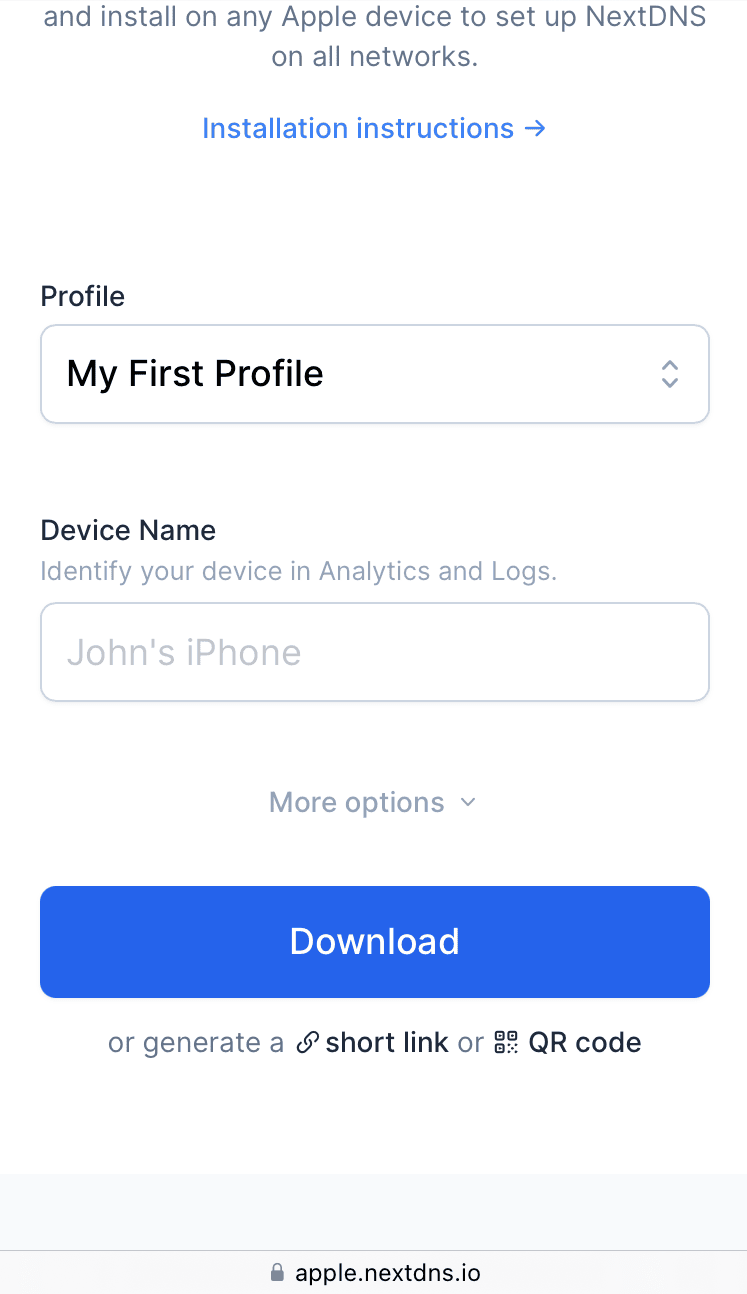
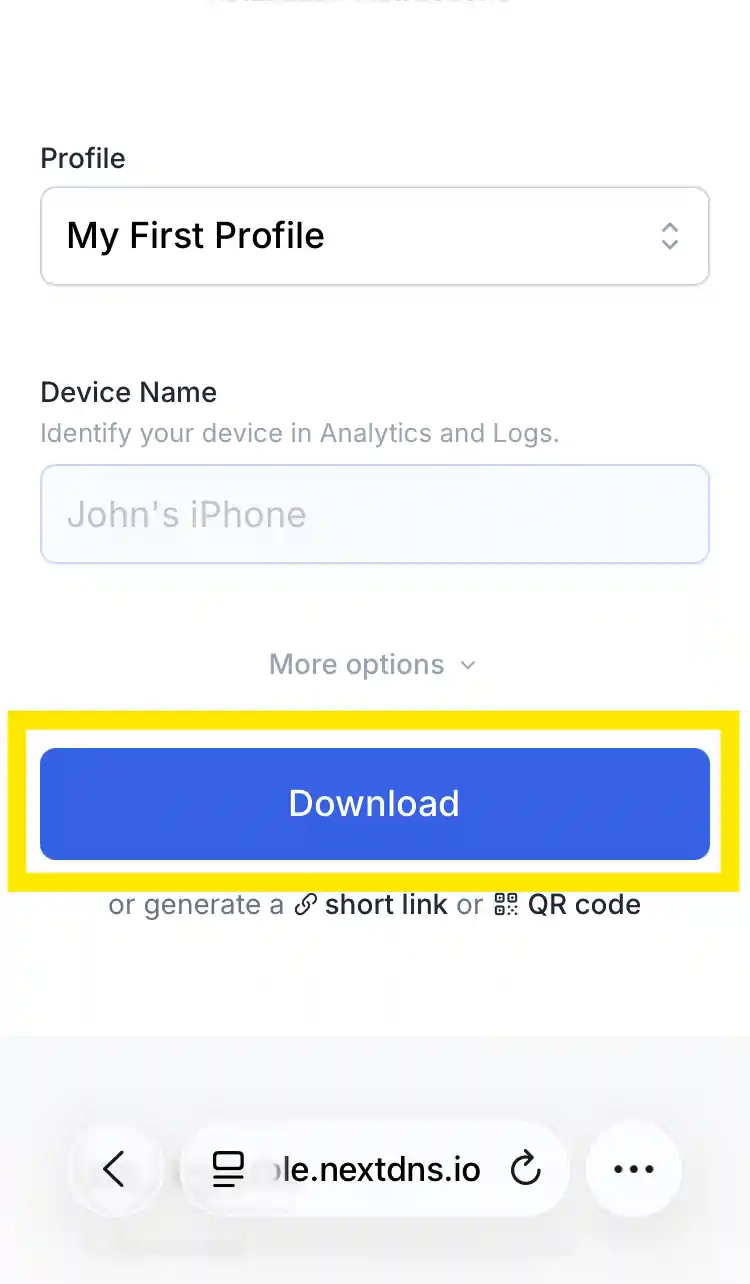
Update DNS adblocker.
Updated the DNS adblocker guide to use iOS 26 screenshots instead of iOS 18.

Removed redundant files.

diff --git a/mobile_tips/dns_adblocker.html b/mobile_tips/dns_adblocker.html
@@ -156,7 +156,7 @@
 				<p>To allow a particular domain you need to open the whitelist/ allowlist page in your NextDNS portal, you then need to enter the domain into the "Add a domain" text box.</p>
 				<p>You can find the domain you need to whitelist in the URL bar, for example the URL of this webpage is "https://<strong>hackbototechtips.github.io</strong>/mobile_tips/dns_adblocker.html", meaning that the domain you would need to unblock would be "hackbototechtips.github.io"</p>
 			<hr>
-		<p>Page Updated: 03/02/2025</p>
+		<p>Page Updated: 09/06/2025</p>
 		<p>Page Author: Hackboto</p>
 	</article>
 	<footer class="asidefooter" title="Website Footer"> <!--Footer-->
